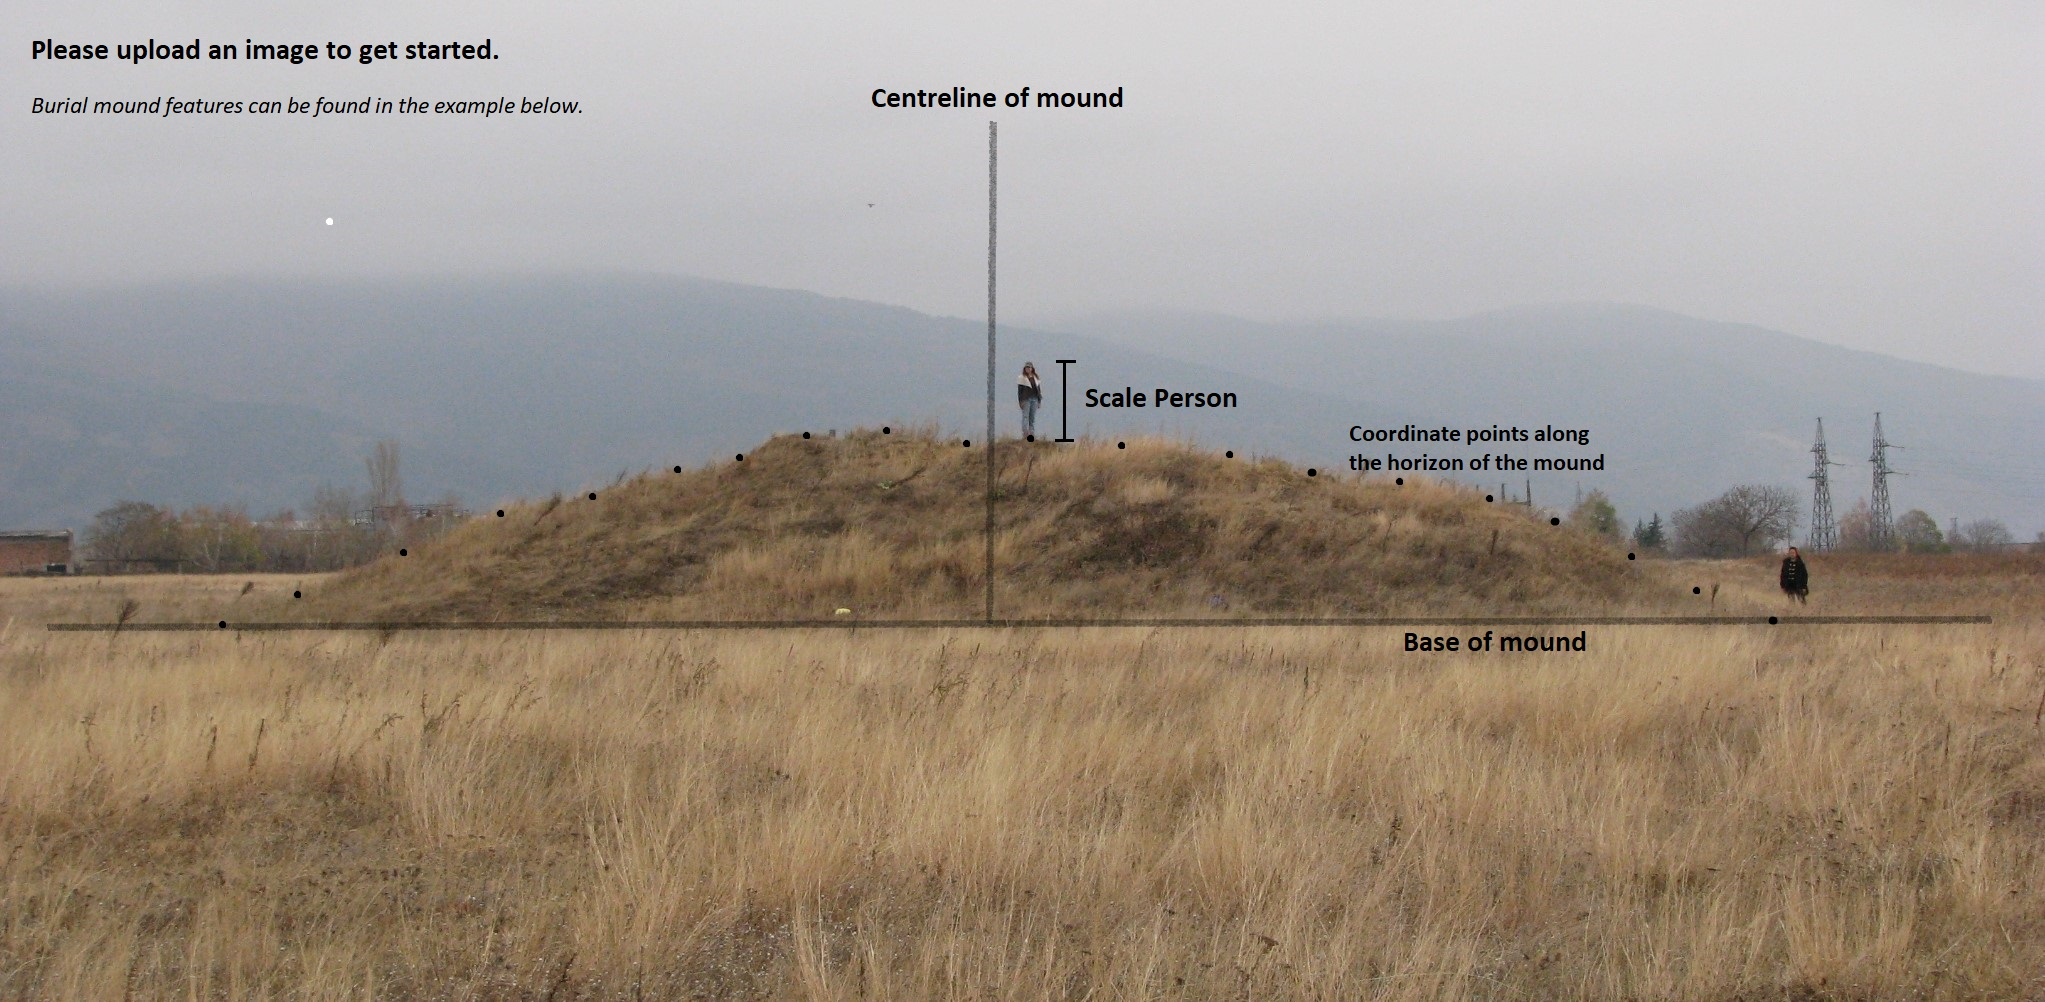
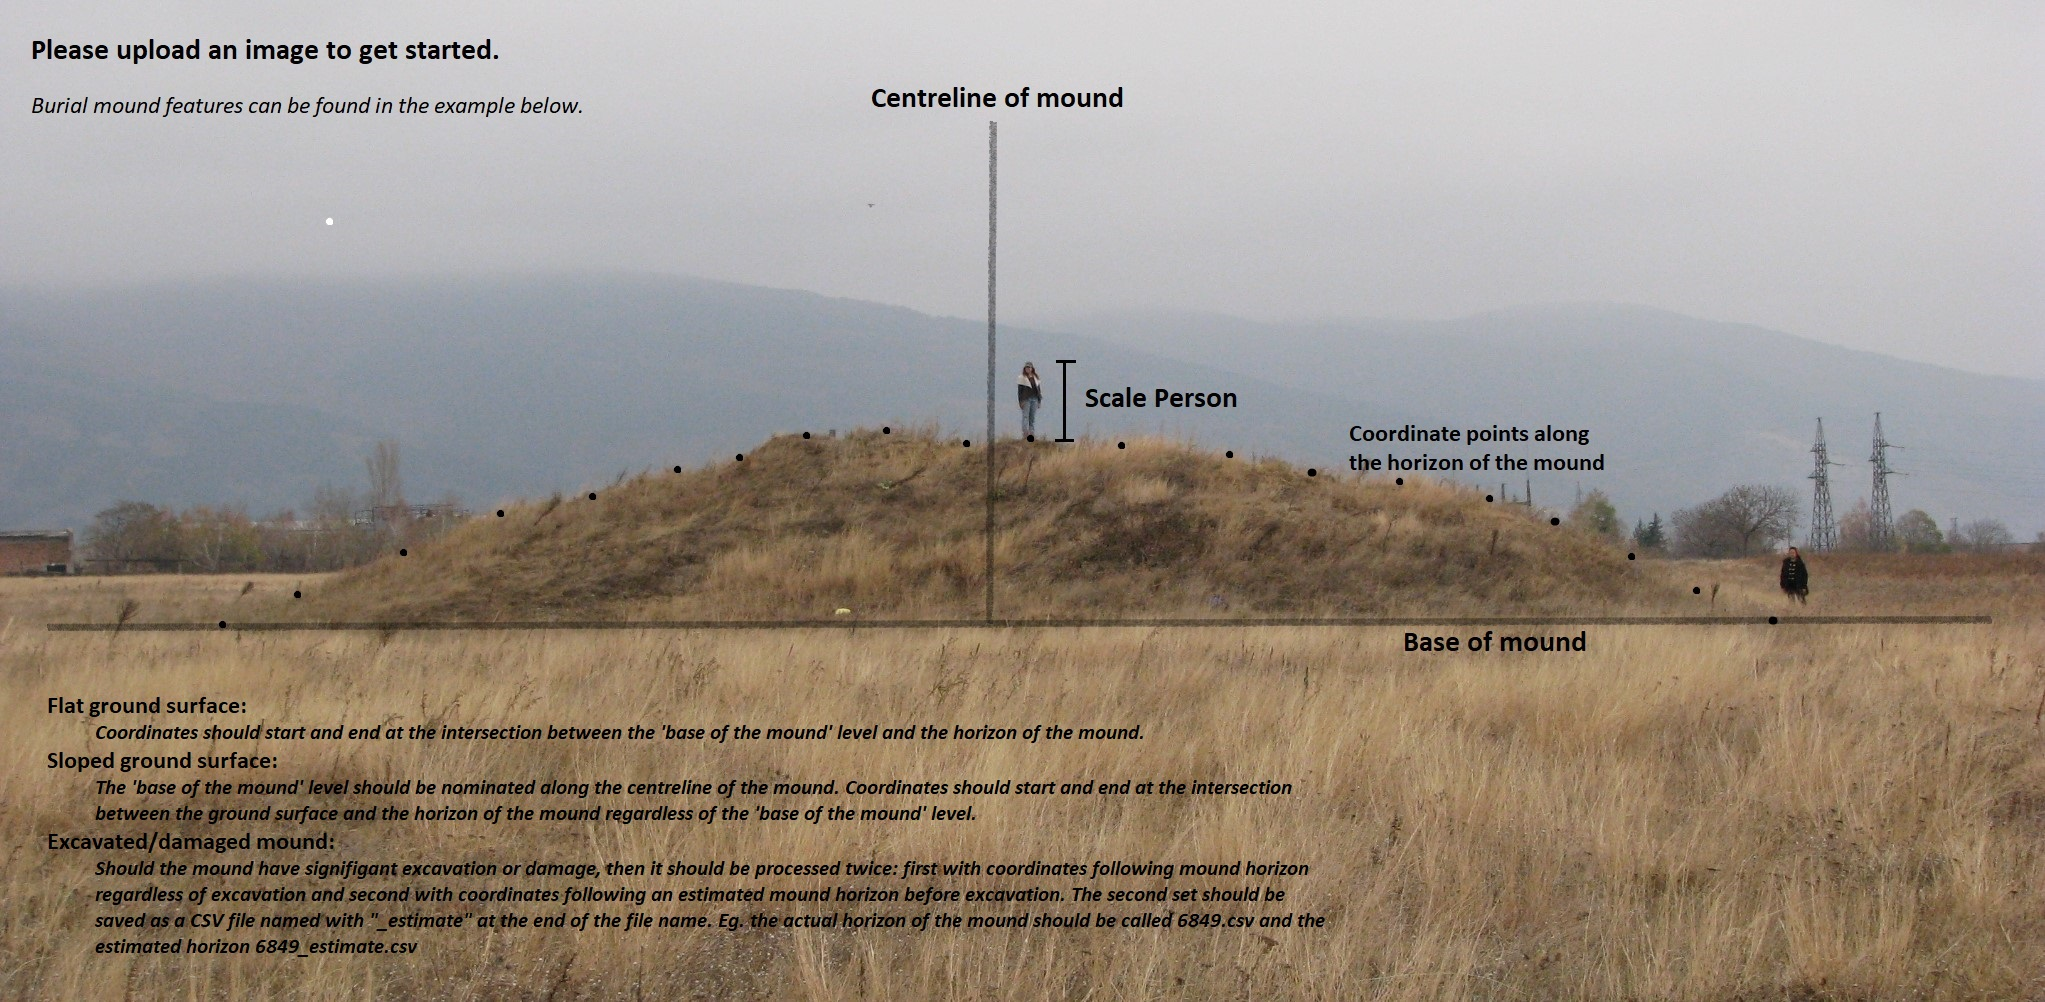
Clearer geometry and additional instructions
I have updated the tool adding the following:
Numbered points and labelled other geometery.
Contrasting lines/coordinate point colours (should be able to be seen against most types of background colours)
Removed scrolling restraint + widened image display - Commentary below.
Additional instructions on the default 'instructions' image detailing how to deal with the the sloped surfaces and excavated mounds.

Changed region(s): [[0.0308, 0.6806, 0.6469, 0.9591]]

diff --git a/PART_A_ProcessImagesTool.html b/PART_A_ProcessImagesTool.html
@@ -22,7 +22,7 @@
   }
   .center-fit {	
    max-width: 100%;
-   width:80%;
+   width:100%;
    position:absolute; top:0px; left:0px;
    height: auto;
     margin-left: auto;
@@ -30,7 +30,7 @@
   }
    .center-fit-canvas {	
    max-width: 100%;
-   width:80%;
+   width:100%;
    position:absolute; top:0px; left:0px;
    height: auto;
     margin-left: auto;
@@ -160,7 +160,8 @@ function startProcessing(e) {
 
 	document.Show.height.value=height;
 	document.onmousemove=getCord;
-	document.onscroll=checkScrollAlert;
+	// The current iteration seems to have solved the scroll issue for geometery - so this scroll alert function is no longer called. Zoom is still an issue but there seems to be no easy way of detecting zoom like there is scroll.
+	// document.onscroll=checkScrollAlert; 
 	document.onmousedown=getClick;
 
 
@@ -170,6 +171,7 @@ function startProcessing(e) {
 
 
 function checkScrollAlert(e) {
+		// The current iteration seems to have solved the scroll issue for geometery - so this function is no longer called. It is commented out above but retained here if it needs to be added in later.
 		scrollcount++;
 		if (scrollcount == 1){
 			alert("Please dont scroll the window after the first click when starting processing as it causes issues with coordinate selection");
@@ -283,10 +285,10 @@ function writeTable(cellsx, cellsy) {
 	document.write('</tbody>');
 	document.write('</table></center>');
 	document.write('</div>');
-	document.write('<b> Step 3: </b><a href="#" class="export">Export Table data into Excel</a>');
+	//document.write('<b> Step 3: </b><a href="#" class="export">Export Table data into Excel</a>');
 	document.write('<br /> ');
 	document.write('<br /> ');
-	document.write('<i>There is some issues with the export function currently. If this button doesnt work then just copy and paste the above table into excel and save as a CSV. Name the file with the mount identifier eg. 8034.csv </i>');
+	document.write('<i>Copy and paste the above table into excel and save as a CSV. Name the file with the mount identifier eg. 8034.csv. If the mound has been excavated or damaged then it should be processed a second time approximating the original mound horizon prior to damage, and the second files should be named 8034_estimate.csv. </i>');
 	document.write('<br /> <br /> <b>Restart Tool:</b> <button onclick="reloadpage()" id="RestartButton">Restart Tool</button>');
 	
 }
@@ -330,59 +332,143 @@ function drawCoordinates(x,y){
   	var ctx = document.getElementById("canvas").getContext("2d");
 
 
-  	ctx.fillStyle = "#000000"; // Red color
+  	ctx.fillStyle = "#000000"; 
 	
 		if (tempC == 1) {
+				ctx.lineWidth = 1;
 				ctx.beginPath();
 					ctx.moveTo(x-20,y);
 					ctx.lineTo(x+20,y);
+					ctx.strokeStyle = '#000000';
+					ctx.setLineDash([]); /*set no dash */
 				ctx.stroke();
 				ctx.beginPath();
+					ctx.moveTo(x-20,y);
+					ctx.lineTo(x+20,y);
+					ctx.setLineDash([5, 5]);/*dashes are 5px and spaces are 5px white dashes over black line*/
+					ctx.strokeStyle = '#FFFFFF';
+				ctx.stroke();
+				ctx.beginPath();
+				ctx.setLineDash([]); /*set no dash */
+					ctx.strokeStyle = '#000000';
 					ctx.moveTo(x,y-10);
 					ctx.lineTo(x,y);
 					ctx.lineTo(x+5,y-5);
 					ctx.lineTo(x,y);
 					ctx.lineTo(x-5,y-5);	
 				ctx.stroke();
-				
+				ctx.lineWidth = 2;
+				ctx.setLineDash([]); /*set no dash for original black line*/
+				ctx.font = "10px Arial";
+				ctx.fillStyle = '#FFFFFF';
+				ctx.strokeStyle = '#000000';
+				ctx.strokeText("Feet",x-10,y+10);
+				ctx.fillText("Feet",x-10,y+10);
 		}
 		
 		if (tempC == 2) {
+				ctx.lineWidth = 1;
 				ctx.beginPath();
-				ctx.moveTo(x-20,y);
-				ctx.lineTo(x+20,y);
+					ctx.moveTo(x-20,y);
+					ctx.lineTo(x+20,y);
+					ctx.strokeStyle = '#000000';
 				ctx.stroke();
 				ctx.beginPath();
+					ctx.moveTo(x-20,y);
+					ctx.lineTo(x+20,y);
+					ctx.setLineDash([5, 5]);/*dashes are 5px and spaces are 5px white dashes over black line*/
+					ctx.strokeStyle = '#FFFFFF';
+				ctx.stroke();
+				ctx.beginPath();
+					ctx.setLineDash([]); /*set no dash*/
+					ctx.strokeStyle = '#000000';
 					ctx.moveTo(x,y+10);
 					ctx.lineTo(x,y);
 					ctx.lineTo(x+5,y+5);
 					ctx.lineTo(x,y);
 					ctx.lineTo(x-5,y+5);
-				ctx.stroke();				
+				ctx.stroke();	
+				ctx.lineWidth = 2;
+				ctx.setLineDash([]); /*set no dash for original black line*/
+				ctx.font = "10px Arial";
+				ctx.fillStyle = '#FFFFFF';
+				ctx.strokeStyle = '#000000';
+				ctx.strokeText("Head",x-10,y-5);
+				ctx.fillText("Head",x-10,y-5);
 		}		
 		
 		if (tempC == 3) {
+				ctx.lineWidth = 1;
+				ctx.setLineDash([]); /*set no dash for original black line*/
 				ctx.beginPath();
-				ctx.moveTo(x,y-5000);
-				ctx.lineTo(x,y+5000);
+					ctx.moveTo(x,y-5000);
+					ctx.lineTo(x,y+5000);
+					ctx.strokeStyle = '#000000';
 				ctx.stroke();
-
+				ctx.setLineDash([5, 5]);/*dashes are 5px and spaces are 5px white dashes over black line*/
+				ctx.beginPath();
+					ctx.moveTo(x,y-5000);
+					ctx.lineTo(x,y+5000);
+					ctx.strokeStyle = '#FFFFFF';
+				ctx.stroke();
+				ctx.lineWidth = 2;
+				ctx.setLineDash([]); /*set no dash for original black line*/
+				ctx.font = "10px Arial";
+				ctx.fillStyle = '#FFFFFF';
+				ctx.strokeStyle = '#000000';
+				ctx.strokeText("Centreline of mound",x-50,y+180);	
+				ctx.fillText("Centreline of mound",x-50,y+180);	
+	
 		}	
 
 		if (tempC == 4) {
-
+				ctx.lineWidth = 1;
+				ctx.setLineDash([]); /*set no dash for original black line*/
 				ctx.beginPath();
-				ctx.moveTo(x-5000,y);
-				ctx.lineTo(x+5000,y);
+					ctx.moveTo(x-5000,y);
+					ctx.lineTo(x+5000,y);
+					ctx.strokeStyle = '#000000';
 				ctx.stroke();
-		
+				ctx.setLineDash([5, 5]);/*dashes are 5px and spaces are 5px white dashes over black line*/
+				ctx.beginPath();
+					ctx.moveTo(x-5000,y);
+					ctx.lineTo(x+5000,y);
+					ctx.strokeStyle = '#FFFFFF';
+				ctx.stroke();
+				ctx.lineWidth = 2;
+				ctx.setLineDash([]); /*set no dash for original black line*/
+				ctx.font = "10px Arial";
+				ctx.fillStyle = '#FFFFFF';
+				ctx.strokeStyle = '#000000';
+				ctx.strokeText("Base of mound",x-280,y-5);
+				ctx.fillText("Base of mound",x-280,y-5);
 		}
 		
 		if (tempC >4){
-
+				ctx.lineWidth = 1;
+				ctx.setLineDash([]);
+				ctx.beginPath();
+					ctx.moveTo(x,y+10);
+					ctx.lineTo(x,y-10);
+					ctx.moveTo(x+10,y);
+					ctx.lineTo(x-10,y);
+					ctx.strokeStyle = '#000000';
+				ctx.stroke();	
 			    ctx.beginPath();
-				ctx.arc(x, y, pointSize, 0, Math.PI * 2, true);
+					ctx.arc(x, y, pointSize, 0, Math.PI * 2, true);
+					ctx.fillStyle = '#000000';
 				ctx.fill();
+				ctx.beginPath();
+					ctx.arc(x, y, pointSize-1.2, 0, Math.PI * 2, true);
+					ctx.fillStyle = '#FFFFFF';
+				ctx.fill();
+				ctx.lineWidth = 2;
+				ctx.setLineDash([]); /*set no dash for original black line*/
+				ctx.font = "10px Arial";
+				ctx.fillStyle = '#FFFFFF';
+				ctx.strokeStyle = '#000000';
+				ctx.strokeText(tempC-4,x-3,y-15);
+				ctx.fillText(tempC-4,x-3,y-15);
 		}
 
 
